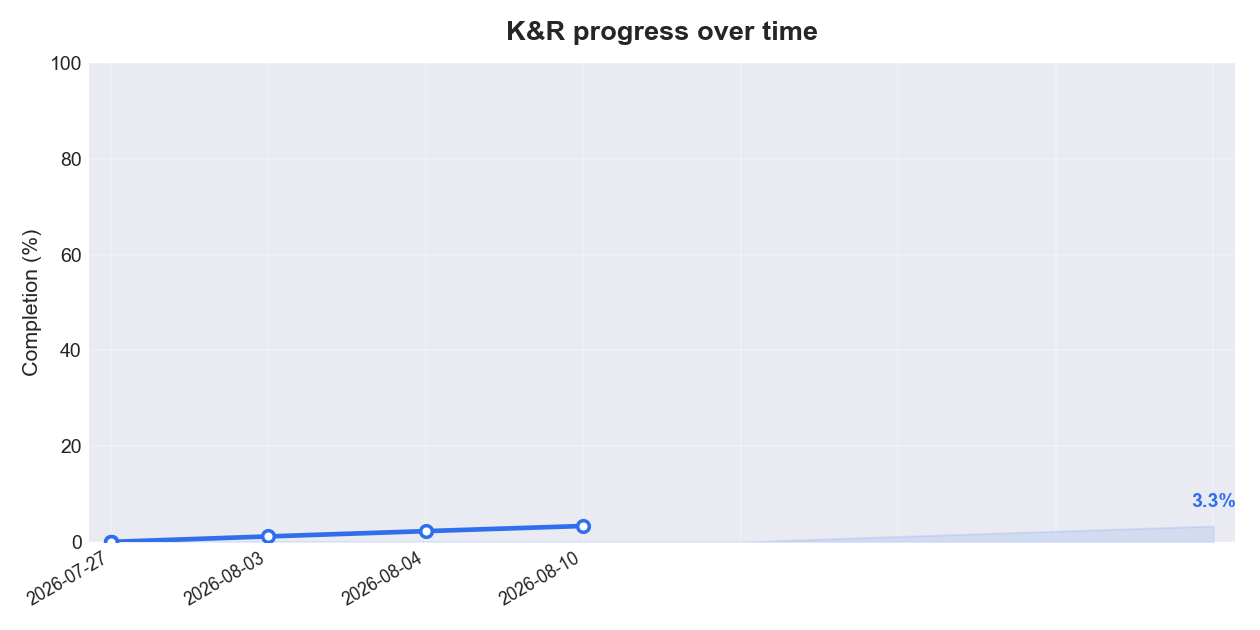
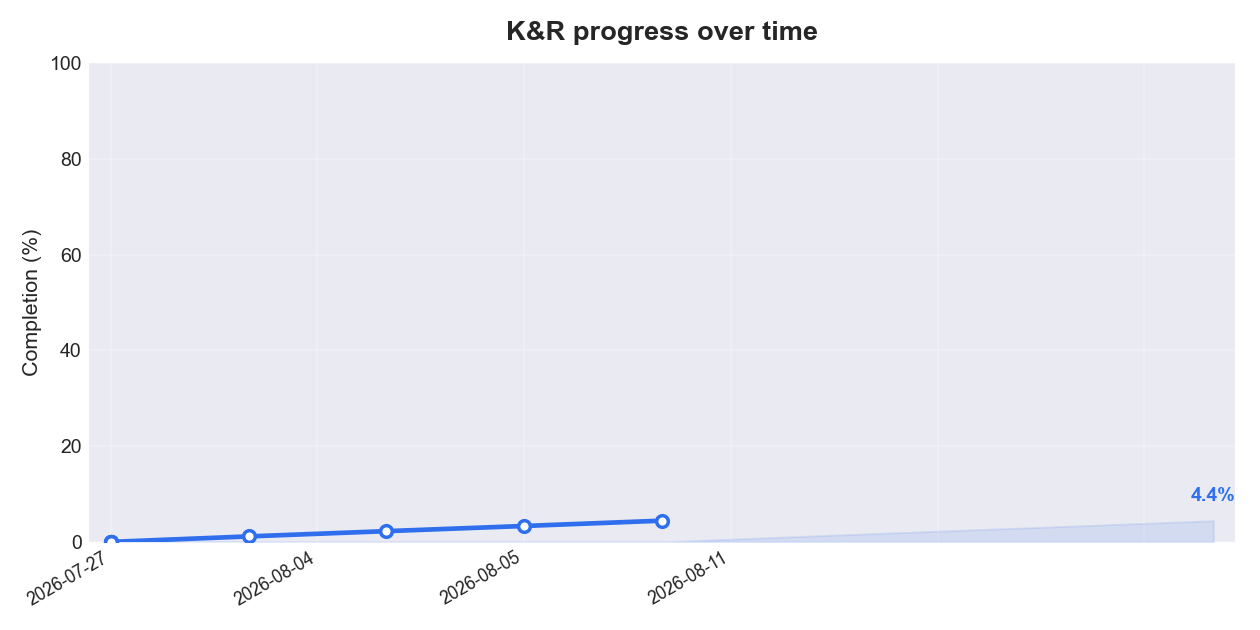
Add notes and exercises for 1.4

diff --git a/ch01-tutorial-intro/1.4-symbolic-constants/notes-1.4.md b/ch01-tutorial-intro/1.4-symbolic-constants/notes-1.4.md
@@ -1,0 +1,58 @@
+# Notes: 1.4 Symbolic Constants
+
+One last cleanup to the temperature converter before moving on: get rid of the "magic
+numbers."
+
+## The problem with magic numbers
+
+Numbers like `300` and `20` sitting directly in the code don't tell a future reader what they
+mean, and if you need to change one, you have to hunt down every place it's used and hope you
+don't miss one or change the wrong occurrence. Giving them names fixes both problems.
+
+## #define
+
+A `#define` line defines a symbolic name for a piece of replacement text:
+
+```c
+#define name replacement list
+```
+
+After that, every place `name` appears in the code (as long as it's not inside quotes and not
+part of a longer identifier) gets swapped out for the replacement text before compilation. The
+name follows the same rules as a variable name: letters and digits, starting with a letter. The
+replacement text isn't limited to numbers, it can be any sequence of characters.
+
+```c
+#include <stdio.h>
+
+#define LOWER 0    /* lower limit of table */
+#define UPPER 300  /* upper limit */
+#define STEP  20   /* step size */
+
+/* print Fahrenheit-Celsius table */
+main()
+{
+    int fahr;
+
+    for (fahr = LOWER; fahr <= UPPER; fahr = fahr + STEP)
+        printf("%3d %6.1f\n", fahr, (5.0/9.0)*(fahr-32));
+}
+```
+
+## Not variables
+
+`LOWER`, `UPPER`, and `STEP` are symbolic constants, not variables, so they don't get declared
+anywhere. They're a text substitution done before the program is compiled, not something that
+takes up storage at runtime.
+
+## Conventions
+
+Symbolic constants are conventionally written in all caps, so they're easy to tell apart from
+lowercase variable names at a glance. Also note there's no semicolon at the end of a `#define`
+line, it's not a C statement.
+
+## Quick recap
+
+`#define NAME value` swaps out magic numbers for readable names, and gives you exactly one
+place to change a value instead of many. By convention the names are uppercase, and the line
+itself has no trailing semicolon.

diff --git a/TRACKER.md b/TRACKER.md
@@ -2,15 +2,15 @@
 
 Auto-generated by `scripts/update_tracker.py`. Do not edit by hand.
 
-_Last updated: 2026-08-10_
+_Last updated: 2026-08-11_
 
 ## Overall
 
-**3.3% complete** `[#-----------------------]`
+**4.4% complete** `[#-----------------------]`
 
 | Metric | Done | Total |
 | --- | --- | --- |
-| Section notes | 3 | 77 |
+| Section notes | 4 | 77 |
 | Chapter summaries | 0 | 8 |
 | Exercises solved | 0 | 5 |
 
@@ -22,7 +22,7 @@ _Last updated: 2026-08-10_
 
 | Chapter | Notes | Summary | Exercises |
 | --- | :---: | :---: | :---: |
-| 1. A Tutorial Introduction | 3 / 10 | - | 0 / 5 |
+| 1. A Tutorial Introduction | 4 / 10 | - | 0 / 5 |
 | 2. Types, Operators and Expressions | 0 / 12 | - | 0 / 0 |
 | 3. Control Flow | 0 / 8 | - | 0 / 0 |
 | 4. Functions and Program Structure | 0 / 11 | - | 0 / 0 |
@@ -42,7 +42,7 @@ _Last updated: 2026-08-10_
 | 1.1 | Getting Started | yes | - | 0 / 2 |
 | 1.2 | Variables and Arithmetic Expressions | yes | - | 0 / 2 |
 | 1.3 | The for statement | yes | - | 0 / 1 |
-| 1.4 | Symbolic Constants | - | - | 0 / 0 |
+| 1.4 | Symbolic Constants | yes | - | 0 / 0 |
 | 1.5 | Character Input and Output | - | - | 0 / 0 |
 | 1.6 | Arrays | - | - | 0 / 0 |
 | 1.7 | Functions | - | - | 0 / 0 |

diff --git a/ch01-tutorial-intro/1.4-symbolic-constants/exercises/exercises-1.4.md b/ch01-tutorial-intro/1.4-symbolic-constants/exercises/exercises-1.4.md
@@ -1,0 +1,9 @@
+# Exercises: 1.4 Symbolic Constants
+
+These are the exercises found in the section text. Check one off when you have a
+working solution file for it in this folder.
+
+Solution files go next to this file and are named like `ex1-4a.c`, `ex1-4b.c`
+(that is `ex<chapter>-<section><letter>.c`).
+
+Total exercises: 0
